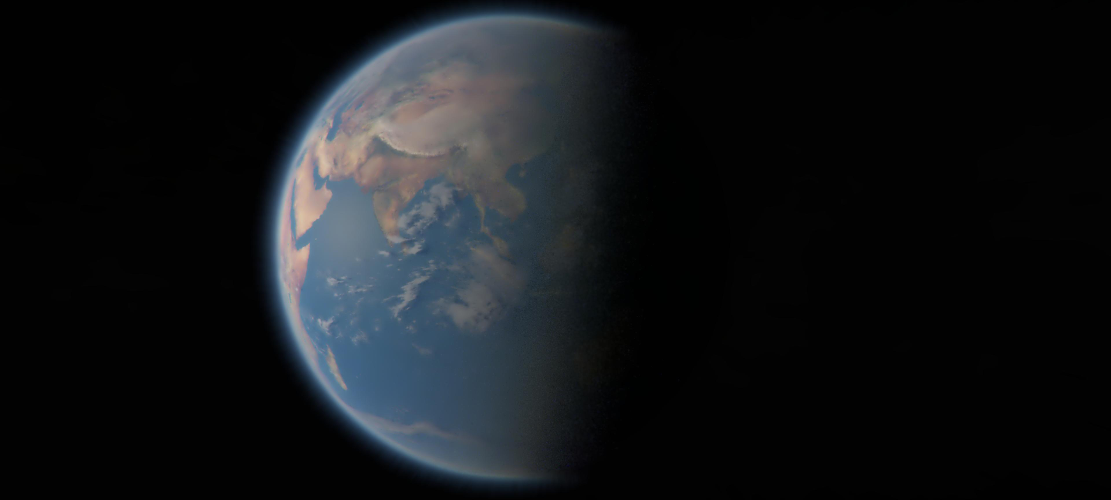
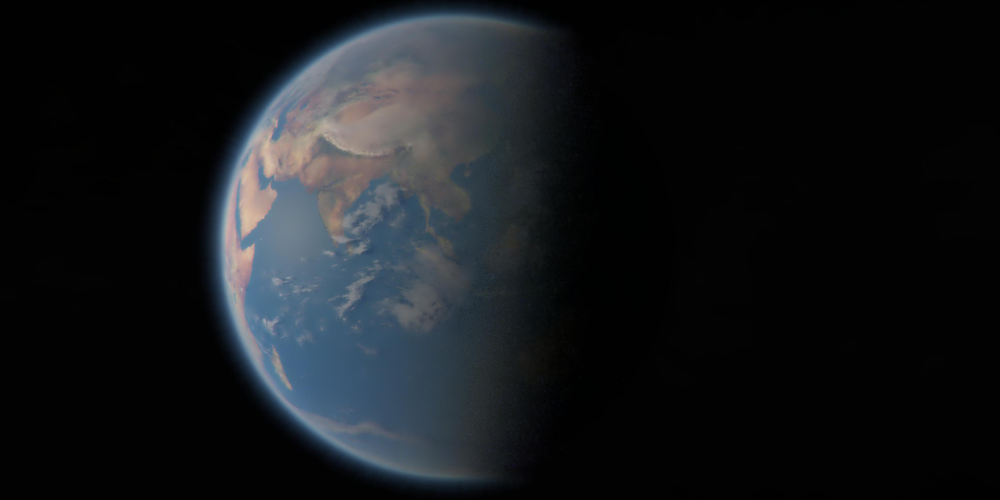
Background moves now
Rather than ship

diff --git a/scripts.js b/scripts.js
@@ -40,7 +40,8 @@ var ranges = [
 
 //initialise canvas
 {
-	var fps = 30;
+	var fps = 50;
+	var gameslow = 75;
 
 	var canvas = oCanvas.create({canvas: "canvas"});
 
@@ -49,17 +50,17 @@ var ranges = [
 	{
 		x:0, 
 		y:0, 
-		origin: {x:0, y:0},
-		image: "images/earthbg.png",
+		origin: {x:111, y:0},
+		image: "images/earthtest.png",
 		height:500,
-		width:1111
+		width:2000
 		//zIndex added after added to canvas
 	});
 	
 	var shipsprite = canvas.display.sprite(
 	{
-		x:0,
-		y:0,
+		x:canvas.width/2,
+		y:canvas.height/2,
 		origin: {x:"center", y:"center"},
 		image: "images/shipsheet.png",
 		height:150,
@@ -147,7 +148,7 @@ function NewGame()
 	this.levelcost = canvas.width;
 	this.progress = 0;
 	this.it = 0;
-	this.it2 = 0;
+	this.it2 = 0; //unused
 	this.longtick = 5;
 
 	this.clicktype = "gold";
@@ -191,22 +192,35 @@ if (Game.goldbuy !== 0)
 }
 
 //main game loop, using date based method
-
+var tab = 'here';
 setInterval( function() 
 {	
     now = new Date();
     var elapsedTime = (now.getTime() - before.getTime());
     if(elapsedTime > delay)
 	{
-        //Recover the motion lost while inactive. Covers offline progression
+        //Recover the motion lost while inactive.
 		for (var i = 0; i < elapsedTime/delay; i++)
-			tick('away'); //without updates to canvas etc...
+		{
+			tick('online');
+			tab = 'away';
+		}
 	}	
 	else
-		tick('here');
+	{
+		tick('online');
+		tab = 'here';
+		drawScreen();
+	}
 	
-    before = new Date();   	
+    before = new Date();   
+	
 }, delay);		
+
+setInterval( function()
+{
+	uiTick(tab);
+}, 1);
 
 }
 
@@ -399,7 +413,7 @@ function offlineticks()
 		
 		//for longer times offline there will be a degree of inaccuracy, however it should run in a constant amount of time
 		
-		for (var i = 0; i < A/delay/fuzz/50; i++)
+		for (var i = 0; i < A/delay/fuzz; i++)
 		{
 			tick('offline', fuzz);
 			console.log('i: ' + i);
@@ -416,17 +430,17 @@ function tick(display, fuzz)
 {
 	if (display === 'offline')
 	{
-		Game.gold += Game.goldpt*fuzz;	
-		Game.progress += Game.goldpt*fuzz;
-		Game.miner += Game.minerpt*fuzz;
-		Game.foreman += Game.foremanpt*fuzz;
+		Game.gold += Game.goldpt*fuzz/gameslow;	
+		Game.progress += Game.goldpt*fuzz/gameslow;
+		Game.miner += Game.minerpt*fuzz/gameslow;
+		Game.foreman += Game.foremanpt*fuzz/gameslow;
 	}
 	else
 	{
-		Game.gold += Game.goldpt/50;	
-		Game.progress += Game.goldpt/50;
-		Game.miner += Game.minerpt/50;
-		Game.foreman += Game.foremanpt/50;
+		Game.gold += Game.goldpt/gameslow;	
+		Game.progress += Game.goldpt/gameslow;
+		Game.miner += Game.minerpt/gameslow;
+		Game.foreman += Game.foremanpt/gameslow;
 	}
 	
 	Game.goldpt = Game.miner * Game.minermod;
@@ -438,43 +452,41 @@ function tick(display, fuzz)
 		Game.level += 1;
 		Game.progress = 0;
 		Game.levelcost *= 2;
-	}
-	
-	if (display !== 'offline')
-	{
-		// auto save the game
-		if (Game.it % 200 === 0)
-		{
-			localStorage.setItem('time', +new Date);
-			localStorage.setItem('saveObject', JSON.stringify(Game));
-			Game.it2 = 0;
-			save_text.text = "Autosaved...";
-		}	
-		//only update ui when the tab is selected
-		if (display === 'here')
-		{		
-			if (Game.it < 1000)
-				Game.it++;	
-			else
-				Game.it = 0;
-			
-			//run ui functions
-			if (Game.it % 6 === 0)
-			{
-				updateCosts();
-				level_text.text = "level " + Game.level;
+	}	
+}
 
-			}
-			if (Game.it % 20 === 0)
-			{
-				grayButtons();
-				checkVisibility();
-				save_text.text = "";
-			}			
-			updateAmounts();			
-			drawScreen();
+function uiTick(state)
+{
+	// auto save the game
+	if (Game.it % 200 === 0)
+	{
+		localStorage.setItem('time', +new Date);
+		localStorage.setItem('saveObject', JSON.stringify(Game));
+		save_text.text = "Autosaved...";
+	}	
+	//only update ui when the tab is selected
+	if (state === 'here')
+	{		
+		if (Game.it < 1000)
+			Game.it++;	
+		else
+			Game.it = 0;
+		
+		//run ui functions
+		if (Game.it % 6 === 0)
+		{
+			updateCosts();
+			level_text.text = "level " + Game.level;
+
 		}
-	}
+		if (Game.it % 20 === 0)
+		{
+			grayButtons();
+			checkVisibility();
+			save_text.text = "";
+		}			
+		updateAmounts();			
+	}	
 }
 
 //~~~~ BUTTON FUNCTIONS ~~~~
@@ -684,7 +696,9 @@ function createDrones()
 
 function drawShip()
 {	
-	shipsprite.moveTo(-75 + (canvas.width+150)*Game.progress/Game.levelcost, canvas.height/2);
+	//shipsprite.moveTo(-75 + (canvas.width+150)*Game.progress/Game.levelcost, canvas.height/2);
+	background.moveTo(111-canvas.width*Game.progress/Game.levelcost, 0);
+	//shipsprite.moveTo(canvas.width/2, canvas.height/2);
 }
 
 function drawScreen()

diff --git a/index.html b/index.html
@@ -84,9 +84,10 @@
 	<h> v.0.1.3</h>
 	<p> Added offline progression </p>
 	<!-- Game window -->
+	<body bgcolor="#000000">
 	
 	<div class = "window"/>
-		<canvas id="canvas" width="1000" height="500" style="background-color: #393939"></canvas>
+		<canvas id="canvas" width="1000" height="500" style="background-color: #FFF"></canvas>
 		<input id = "deletesave" type ="button" value = "Delete save file" onclick = "deleteSave()"/>
 	</div>
 	
